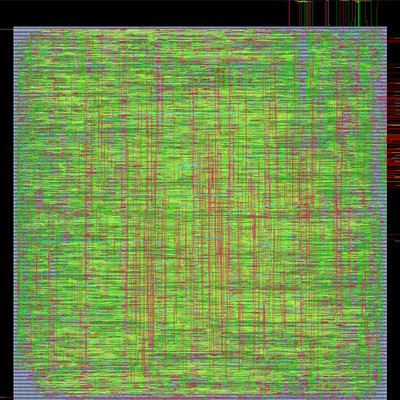
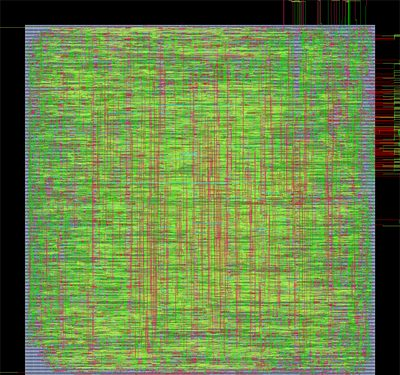
Migrate liteeth and sha3 thumbnails to versioned filenames
Bring thumbnails in line with the SHA-versioned full-resolution
PNGs that were already in place. For each (design, platform) pair
where a versioned <name>_<sha>.png exists:

- Rewrite gallery.html <img src=…> from
  figures/thumbs/<name>.jpg to figures/thumbs/<name>_<sha>.jpg
- Add the new versioned thumbnail (made by make_thumbnails.py)
- Remove the legacy unversioned thumbnail

Touches sha3 and all 6 liteeth variants on every cached platform.
Designs whose PNG is still on the canonical name (cnn, NyuziProcessor,
NVDLA partitions, vortex) are unchanged — gallery.html still
references both .png and .jpg unversioned for those, so consistency
holds; the next /update-results run will migrate them together.

diff --git a/gallery.html b/gallery.html
@@ -353,9 +353,9 @@
       <div class="design-body">
         <div class="design-image">
           <div class="design-thumbs">
-            <a class="thumb-link" href="figures/sha3_asap7_187ef139.png"><img src="figures/thumbs/sha3_asap7.jpg" alt="SHA3 asap7 final"><span class="thumb-label asap7">asap7</span></a>
-            <a class="thumb-link" href="figures/sha3_nangate45_205e9ff0.png"><img src="figures/thumbs/sha3_nangate45.jpg" alt="SHA3 nangate45 final"><span class="thumb-label nangate45">nangate45</span></a>
-            <a class="thumb-link" href="figures/sha3_sky130hd_caba4c83.png"><img src="figures/thumbs/sha3_sky130hd.jpg" alt="SHA3 sky130hd final"><span class="thumb-label sky130hd">sky130hd</span></a>
+            <a class="thumb-link" href="figures/sha3_asap7_187ef139.png"><img src="figures/thumbs/sha3_asap7_187ef139.jpg" alt="SHA3 asap7 final"><span class="thumb-label asap7">asap7</span></a>
+            <a class="thumb-link" href="figures/sha3_nangate45_205e9ff0.png"><img src="figures/thumbs/sha3_nangate45_205e9ff0.jpg" alt="SHA3 nangate45 final"><span class="thumb-label nangate45">nangate45</span></a>
+            <a class="thumb-link" href="figures/sha3_sky130hd_caba4c83.png"><img src="figures/thumbs/sha3_sky130hd_caba4c83.jpg" alt="SHA3 sky130hd final"><span class="thumb-label sky130hd">sky130hd</span></a>
           </div>
         </div>
         <div class="design-info">
@@ -469,12 +469,12 @@
       <div class="design-body">
         <div class="design-image">
           <div class="design-thumbs">
-            <a class="thumb-link" href="figures/liteeth_mac_axi_mii_asap7_518c6e03.png"><img src="figures/thumbs/liteeth_mac_axi_mii_asap7.jpg" alt="LiteEth MAC/AXI/MII asap7 final"><span class="thumb-label asap7">asap7</span><span class="thumb-variant">mac_axi_mii</span></a>
-            <a class="thumb-link" href="figures/liteeth_mac_axi_mii_nangate45_518c6e03.png"><img src="figures/thumbs/liteeth_mac_axi_mii_nangate45.jpg" alt="LiteEth MAC/AXI/MII nangate45 final"><span class="thumb-label nangate45">nangate45</span><span class="thumb-variant">mac_axi_mii</span></a>
-            <a class="thumb-link" href="figures/liteeth_mac_axi_mii_sky130hd_518c6e03.png"><img src="figures/thumbs/liteeth_mac_axi_mii_sky130hd.jpg" alt="LiteEth MAC/AXI/MII sky130hd final"><span class="thumb-label sky130hd">sky130hd</span><span class="thumb-variant">mac_axi_mii</span></a>
-            <a class="thumb-link" href="figures/liteeth_udp_stream_rgmii_asap7_518c6e03.png"><img src="figures/thumbs/liteeth_udp_stream_rgmii_asap7.jpg" alt="LiteEth UDP/RGMII asap7 final"><span class="thumb-label asap7">asap7</span><span class="thumb-variant">udp_stream_rgmii</span></a>
-            <a class="thumb-link" href="figures/liteeth_udp_stream_rgmii_nangate45_518c6e03.png"><img src="figures/thumbs/liteeth_udp_stream_rgmii_nangate45.jpg" alt="LiteEth UDP/RGMII nangate45 final"><span class="thumb-label nangate45">nangate45</span><span class="thumb-variant">udp_stream_rgmii</span></a>
-            <a class="thumb-link" href="figures/liteeth_udp_stream_rgmii_sky130hd_518c6e03.png"><img src="figures/thumbs/liteeth_udp_stream_rgmii_sky130hd.jpg" alt="LiteEth UDP/RGMII sky130hd final"><span class="thumb-label sky130hd">sky130hd</span><span class="thumb-variant">udp_stream_rgmii</span></a>
+            <a class="thumb-link" href="figures/liteeth_mac_axi_mii_asap7_518c6e03.png"><img src="figures/thumbs/liteeth_mac_axi_mii_asap7_518c6e03.jpg" alt="LiteEth MAC/AXI/MII asap7 final"><span class="thumb-label asap7">asap7</span><span class="thumb-variant">mac_axi_mii</span></a>
+            <a class="thumb-link" href="figures/liteeth_mac_axi_mii_nangate45_518c6e03.png"><img src="figures/thumbs/liteeth_mac_axi_mii_nangate45_518c6e03.jpg" alt="LiteEth MAC/AXI/MII nangate45 final"><span class="thumb-label nangate45">nangate45</span><span class="thumb-variant">mac_axi_mii</span></a>
+            <a class="thumb-link" href="figures/liteeth_mac_axi_mii_sky130hd_518c6e03.png"><img src="figures/thumbs/liteeth_mac_axi_mii_sky130hd_518c6e03.jpg" alt="LiteEth MAC/AXI/MII sky130hd final"><span class="thumb-label sky130hd">sky130hd</span><span class="thumb-variant">mac_axi_mii</span></a>
+            <a class="thumb-link" href="figures/liteeth_udp_stream_rgmii_asap7_518c6e03.png"><img src="figures/thumbs/liteeth_udp_stream_rgmii_asap7_518c6e03.jpg" alt="LiteEth UDP/RGMII asap7 final"><span class="thumb-label asap7">asap7</span><span class="thumb-variant">udp_stream_rgmii</span></a>
+            <a class="thumb-link" href="figures/liteeth_udp_stream_rgmii_nangate45_518c6e03.png"><img src="figures/thumbs/liteeth_udp_stream_rgmii_nangate45_518c6e03.jpg" alt="LiteEth UDP/RGMII nangate45 final"><span class="thumb-label nangate45">nangate45</span><span class="thumb-variant">udp_stream_rgmii</span></a>
+            <a class="thumb-link" href="figures/liteeth_udp_stream_rgmii_sky130hd_518c6e03.png"><img src="figures/thumbs/liteeth_udp_stream_rgmii_sky130hd_518c6e03.jpg" alt="LiteEth UDP/RGMII sky130hd final"><span class="thumb-label sky130hd">sky130hd</span><span class="thumb-variant">udp_stream_rgmii</span></a>
           </div>
         </div>
         <div class="design-info">